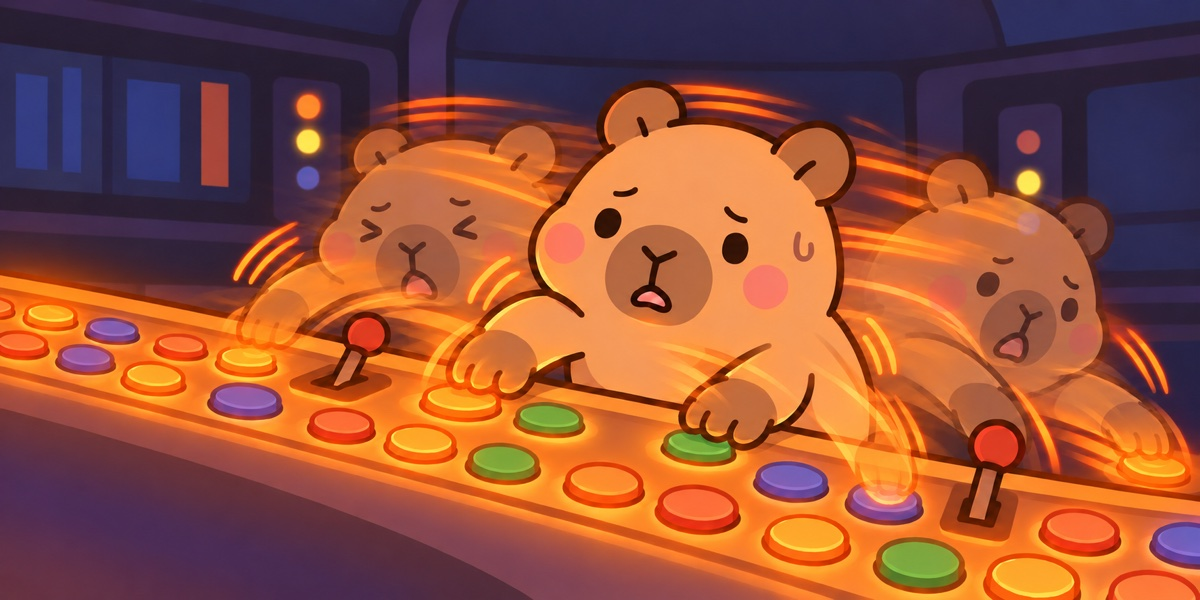
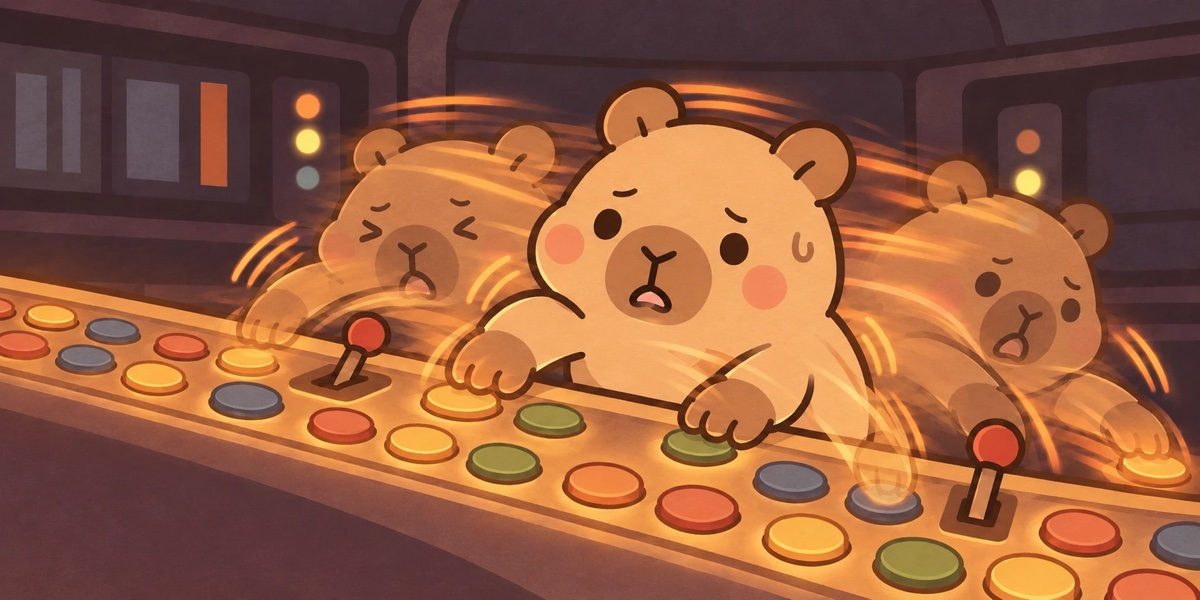
fix: 일기의 막막함 · 불안함 사진을 새 그림으로 바꾼다
사용자가 새로 준 그림으로 두 장을 교체한다. 다른 감정 사진과 같게 긴 변 1200px,
JPEG 품질 85로 넣었고 파일 이름이 같아 연결 코드는 그대로다.

전체 테스트 1,900개 통과.

diff --git a/assets/diary/photos/README.md b/assets/diary/photos/README.md
@@ -1,6 +1,6 @@
 # 일기 감정 사진
 
-2026-10-31~2026-11-01 사용자가 제공한 카피바라 사진이다. 원본(1774×887 또는 1536×768)의 화면비 2:1을 유지하며 긴 변 1200px, JPEG 품질 85로 앱에 반입했다. 그림 내용이나 배경은 바꾸지 않았다.
+2026-10-31~2026-11-01 사용자가 제공한 카피바라 사진이다. 원본(1774×887 또는 1536×768)의 화면비 2:1을 유지하며 긴 변 1200px, JPEG 품질 85로 앱에 반입했다. 그림 내용이나 배경은 바꾸지 않았다. 2026-11-04 막막함(`stuck.jpg`)과 불안함(`anxious.jpg`)을 사용자가 새로 제공한 그림(원본 1774×887)으로 같은 방식으로 교체했다.
 
 | 감정 id | 이름   | 파일           |
 | ------- | ------ | -------------- |
